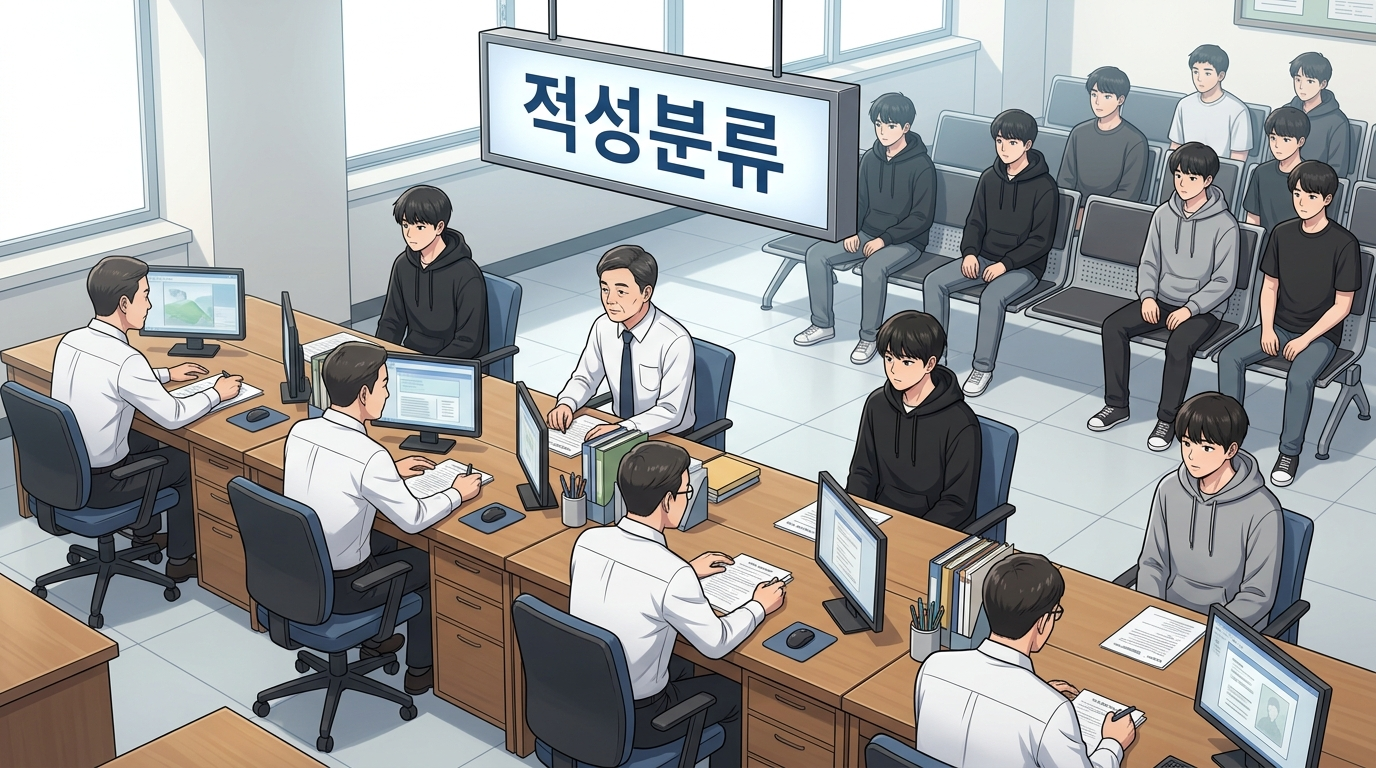
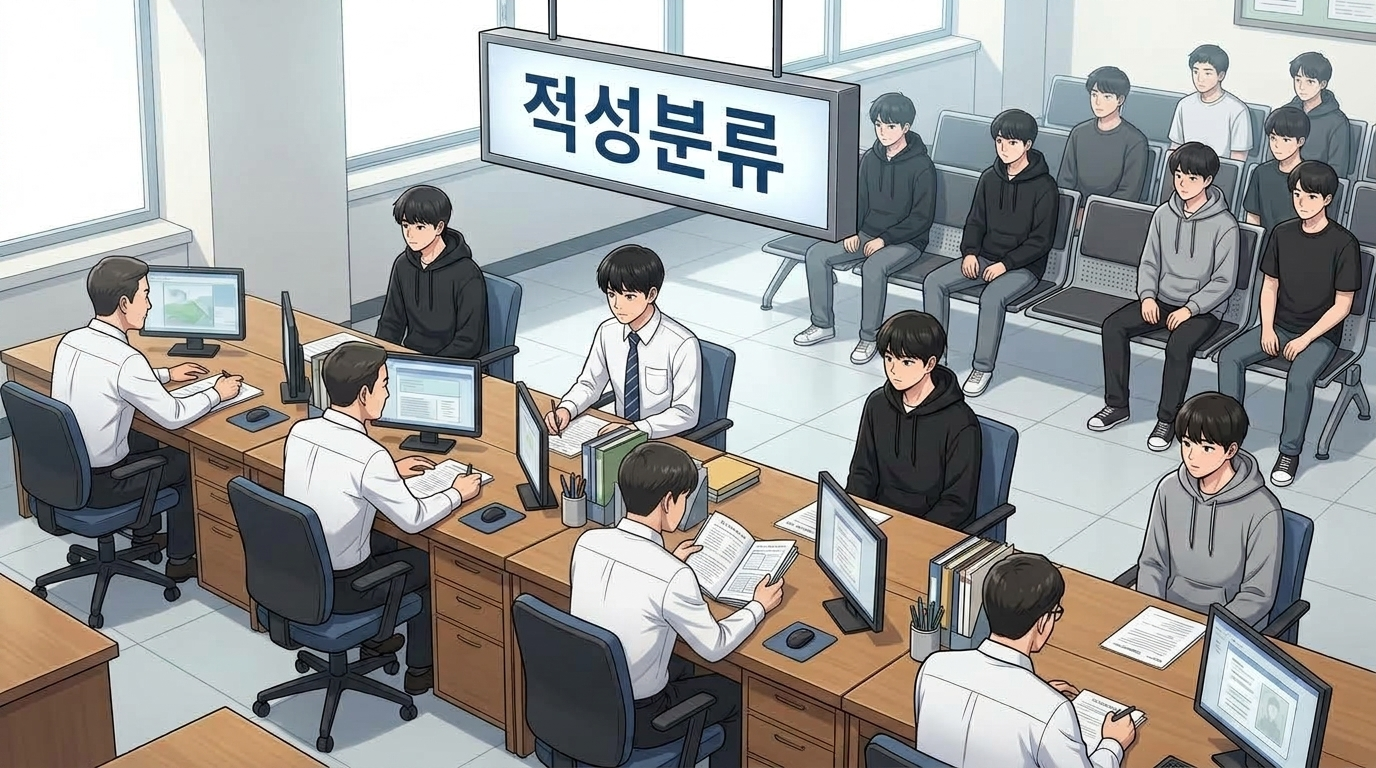
Fix: 적성분류실(Scene 11) 배경 중앙 노인 인물 제거 및 깔끔한 청년 상담관으로 교체

diff --git a/index.html b/index.html
@@ -1170,7 +1170,7 @@
 
   <!-- ================= [SCRIPT: 비주얼 노벨 인터랙티브 엔진] ================= -->
   <script>
-    const ASSET_VER = '20260906_v195_28';
+    const ASSET_VER = '20260907_v195_29';
     function getAssetUrl(url) {
       if (!url) return '';
       if (url.includes('?')) return url;
